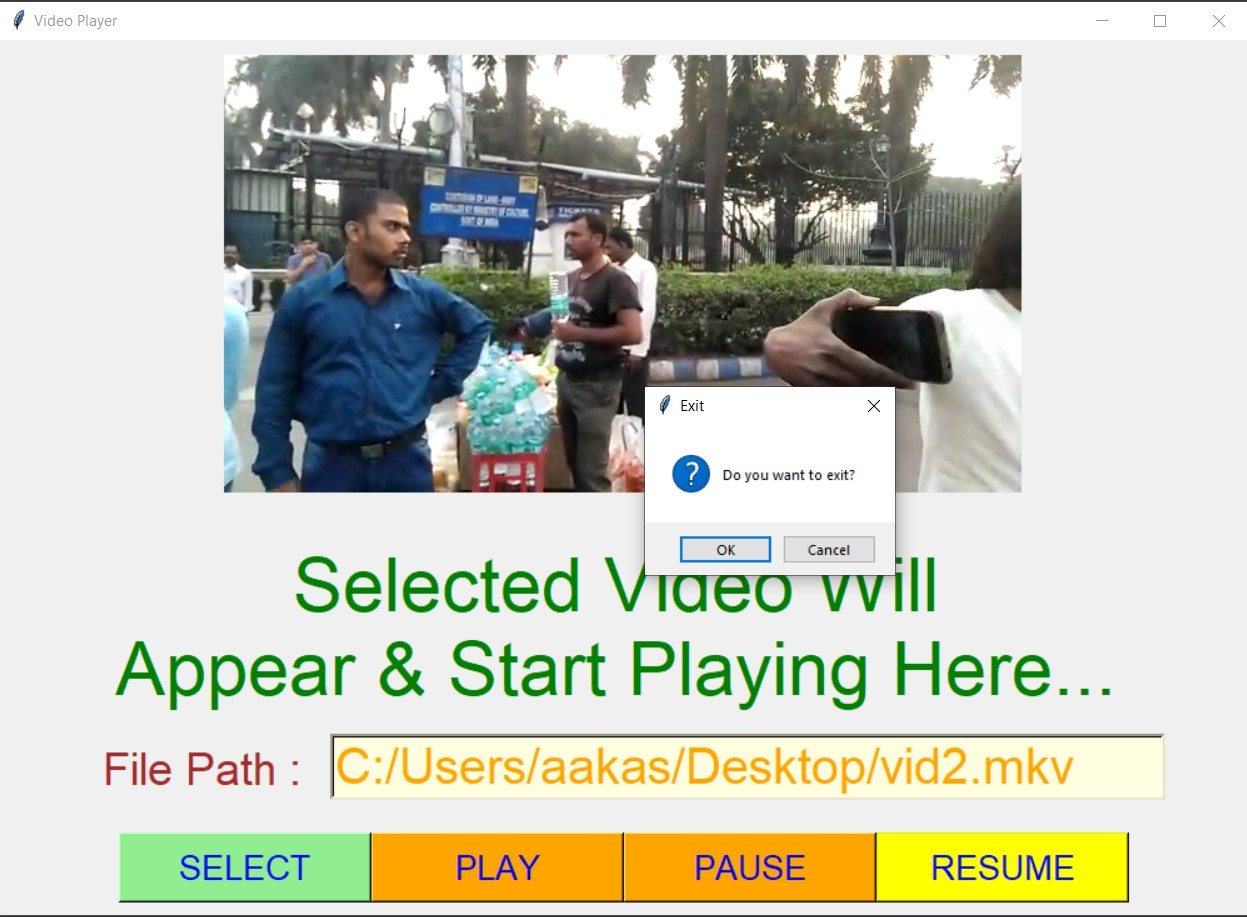
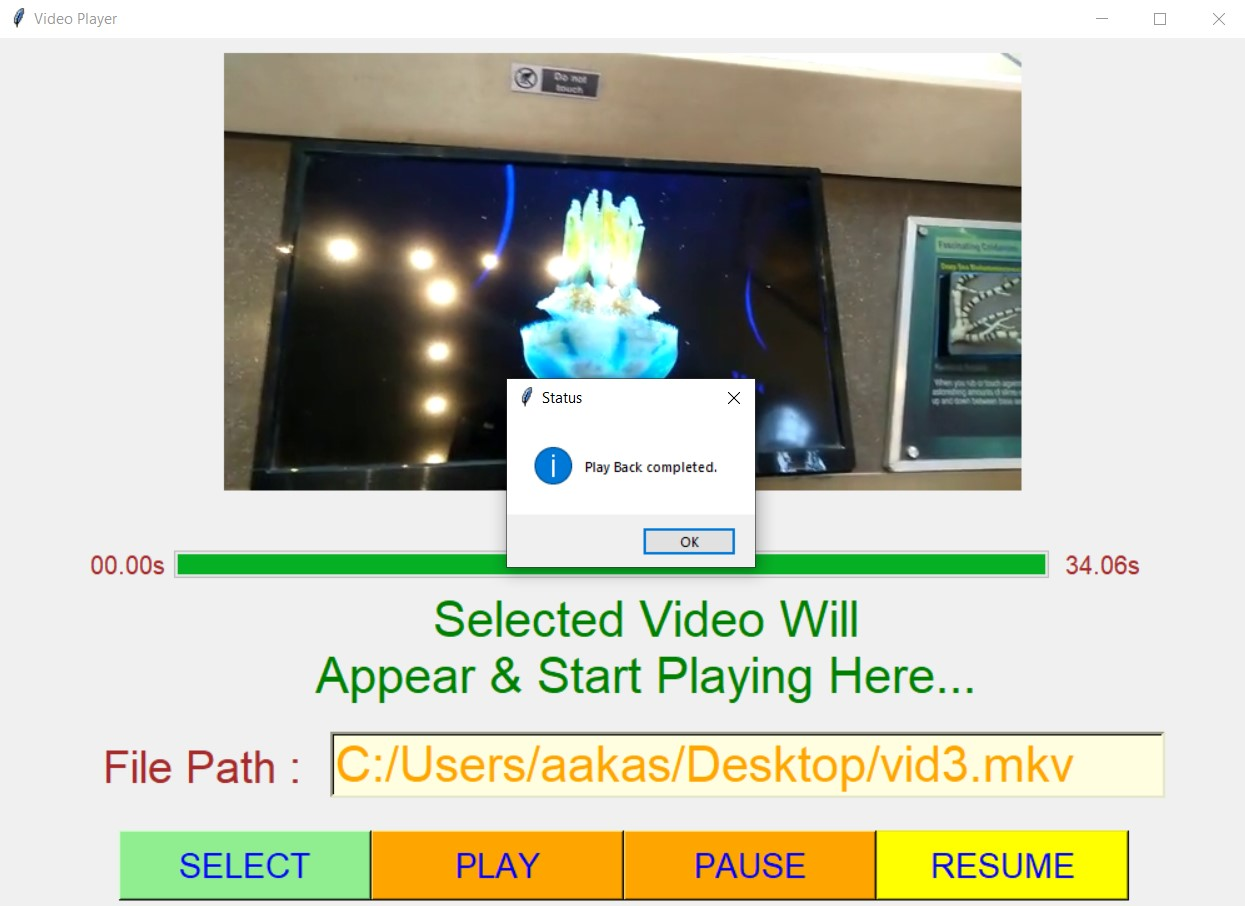
Enhanced Video Player with Progress bar in GUIScripts

diff --git a/GUIScripts/Video Player/video_player.py b/GUIScripts/Video Player/video_player.py
@@ -10,12 +10,18 @@ from tkinter import ttk
 from tkinter import filedialog
 from PIL import ImageTk, Image
 import cv2
+import numpy as np
+from moviepy.editor import VideoFileClip
 
 
 # class videoGUI for playing video
 class videoGUI:
     # init function defined
     def __init__(self, window):
+
+        self.files = iter(np.arange(1, 10000))
+        self.pause1 = 0
+        self.downloaded = IntVar()
 
         self.window = window
         # self.window.title(window_title)
@@ -33,8 +39,19 @@ class videoGUI:
         self.entry1 = Entry(self.window, font=("Arial", 30), fg='orange', bg="light yellow", borderwidth=3, width=30)
         self.entry1.place(x=265, y=555)
 
-        self.lbl1 = tk.Label(self.window, text="Selected Video Will\nAppear & Start Playing Here...", font=("Arial", 45),fg="green")  # same way bg
-        self.lbl1.place(x=90, y=400)
+        # for progress bar -----------------
+        self.st1 = tk.Label(self.window, font=("Arial", 15), fg="brown")  # same way bg
+        self.st1.place(x=70, y=407)
+
+        self.ed1 = tk.Label(self.window, font=("Arial", 15), fg="brown")  # same way bg
+        self.ed1.place(x=850, y=407)
+
+        self.progress = ttk.Progressbar(self.window, length=700, orient='horizontal', maximum=5000,variable=self.downloaded, mode='determinate')
+        self.progress.place(x=140, y=410)
+        # ------------------------------------
+
+        self.lbl1 = tk.Label(self.window, text="Selected Video Will\nAppear & Start Playing Here...", font=("Arial", 30),fg="green")  # same way bg
+        self.lbl1.place(x=250, y=440)
 
         self.pause = False   # Parameter that controls pause button
 
@@ -67,6 +84,9 @@ class videoGUI:
         self.pause = False
 
         self.filename = filedialog.askopenfilename(title="Select file")
+        self.clip = VideoFileClip(self.filename)
+        self.st1.configure(text="00.00s")
+        self.ed1.configure(text=str(self.clip.duration) + "s")
         # print(self.filename)
         self.entry1.delete(0, END)
         self.entry1.insert(0,self.filename)
@@ -79,6 +99,18 @@ class videoGUI:
 
         self.canvas.config(width = self.width, height = self.height)
         mbox.showinfo("Status","File Selected successfully, click on PLAY button to play video.")
+        self.loading()
+
+    def loading(self):
+        global pause
+        if not self.pause:
+            try:
+                self.downloaded.set(next(self.files))  # update the progress bar
+                self.window.after(1, self.loading)  # call this function again in 1 millisecond
+            except StopIteration:
+                mbox.showinfo("Status", "Play Back completed.")
+                # the files iterator is exhausted
+                # root.destroy()
 
 
     # function defined to get the frame
@@ -106,6 +138,8 @@ class videoGUI:
 
         if not self.pause:
             self.window.after(self.delay, self.play_video)
+            # self.cnt = self.cnt + 0.01
+            # self.st1.configure(text=str(self.cnt))
 
 
     # function defined to pause video
@@ -117,7 +151,7 @@ class videoGUI:
     def resume_video(self):
         self.pause=False
         self.play_video()
-
+        self.loading()
 
     # Release the video source when the object is destroyed
     def __del__(self):

diff --git a/GUIScripts/Video Player/README_enhanced.md b/GUIScripts/Video Player/README_enhanced.md
@@ -1,0 +1,36 @@
+# ✔ VIDEO PLAYER
+- ### An Video Player is an application created in python with tkinter gui and OpenCv library.
+- ### In this application user can select any video (mp4, mkv, wmv, or any other format) and can play that video.
+- ### Along with that user will also get option to pause the video and also can resume the video from where paused.
+- ### For implementing this used OpenCv library.
+- ### Here user can also see the progress of the video in the progress bar just below the video.
+
+****
+
+# Changes Done :
+- ### Added progress par, where the progress of video will be shown, just below the video, when video playing starts.
+- ### Also user will be able see the duration of video in seconds just right to the progress bar.
+
+****
+
+# SCREENSHOTS :
+
+****
+
+<p align="center">
+  <img width = 1000 src="Images/1.jpg" /><br>
+  <img width = 1000 src="Images/2.jpg" /><br>
+  <img width = 1000 src="Images/3.jpg" /><br>
+  <img width = 1000 src="Images/4.jpg" /><br>
+  <img width = 1000 src="Images/5.jpg" /><br>
+  <img width = 1000 src="Images/6.jpg" /><br>
+  <img width = 1000 src="Images/7.jpg" /><br>
+  <img width = 1000 src="Images/8.jpg" /><br>
+  <img width = 1000 src="Images/9.jpg" /><br>
+</p>
+
+****
+
+# Author : 
+- ### Akash Ramanand Rajak
+
